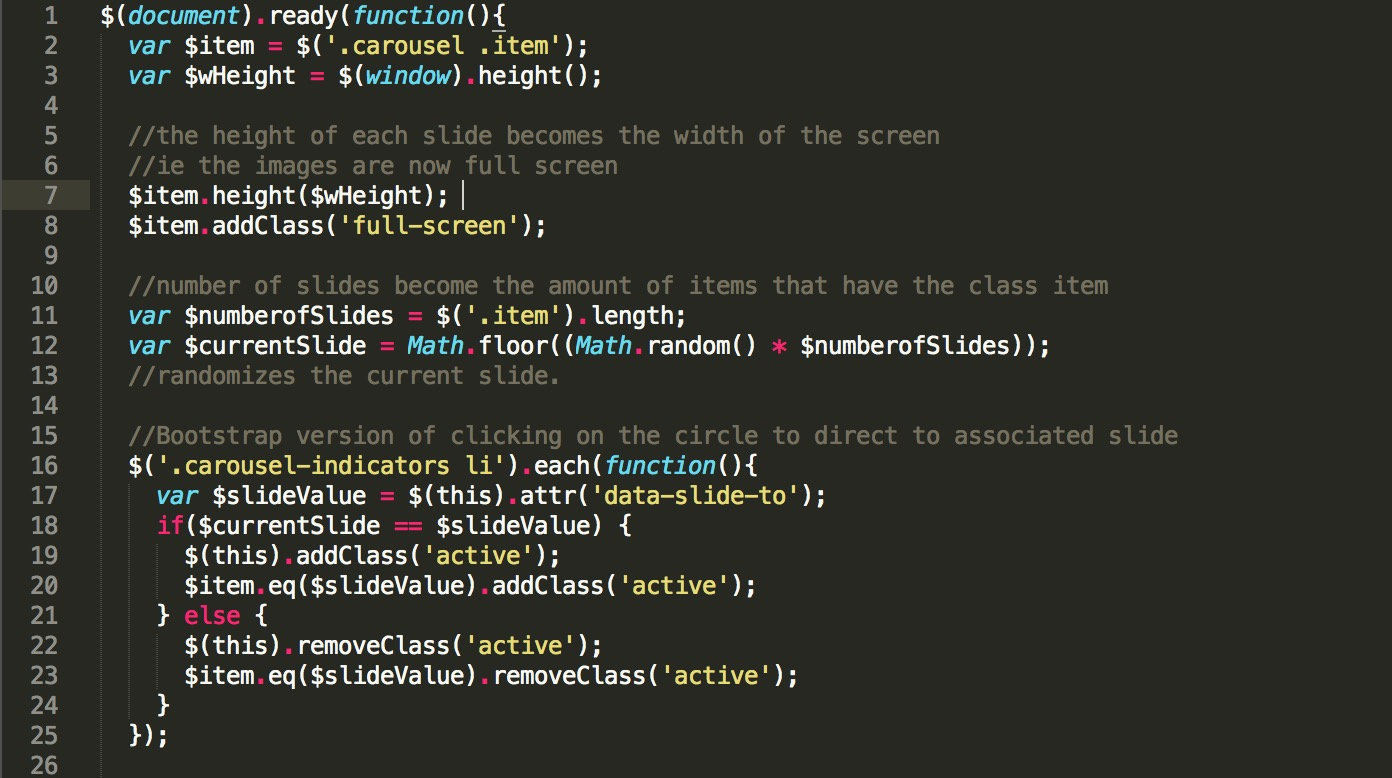
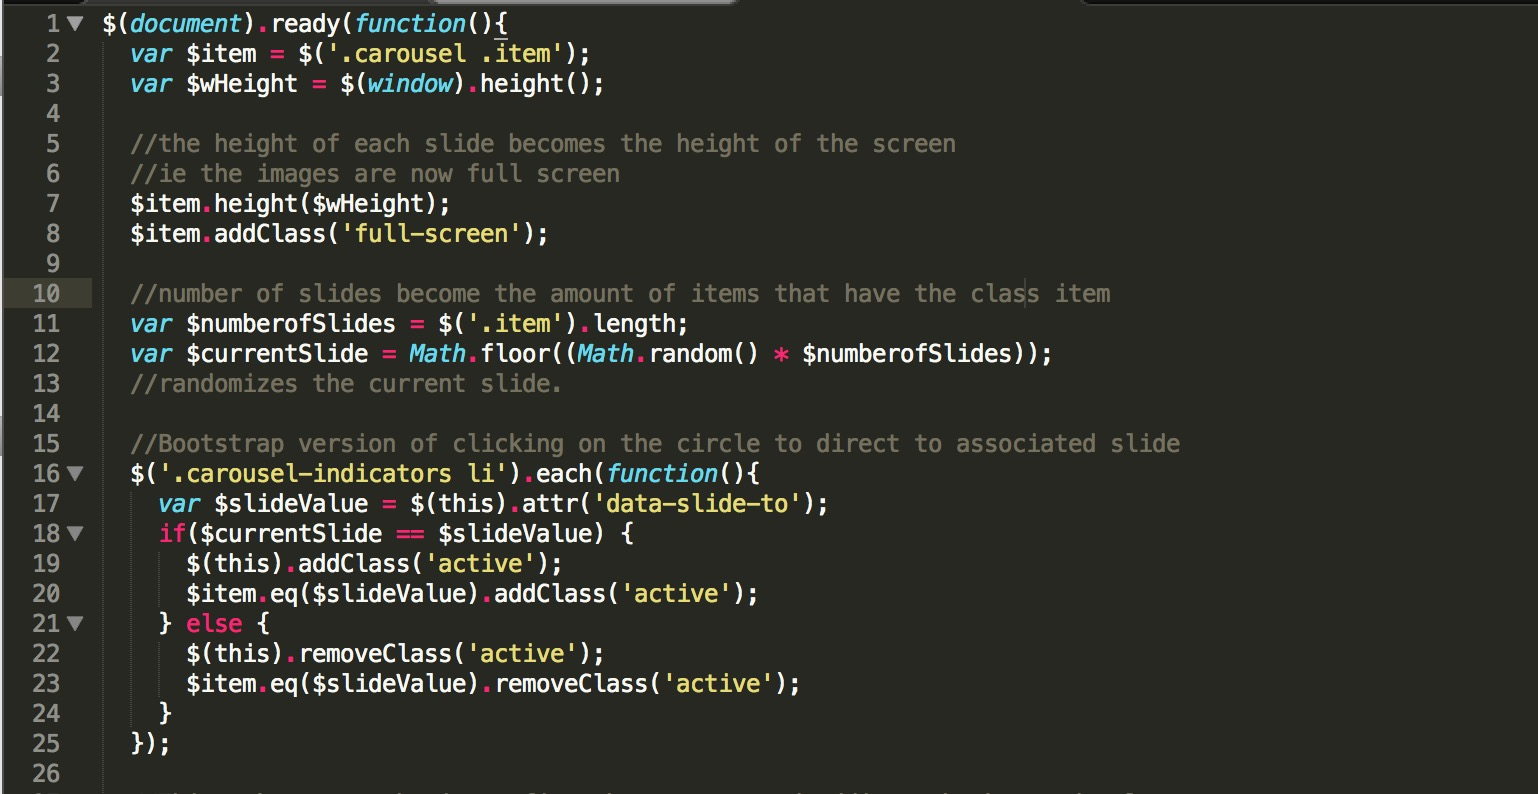
photo js:

Changed region(s): [[0.0, 0.0, 0.8649, 1.0]]

diff --git a/home/photo.js b/home/photo.js
@@ -2,7 +2,7 @@ $(document).ready(function(){
   var $item = $('.carousel .item');
   var $wHeight = $(window).height();
 
-  //the height of each slide becomes the width of the screen
+  //the height of each slide becomes the height of the screen
   //ie the images are now full screen
   $item.height($wHeight); 
   $item.addClass('full-screen');

diff --git a/README.md b/README.md
@@ -71,6 +71,15 @@ The photojs is a bit more complicated, but I'll go through it line by line. I've
 
 Line 1 "$(document).ready(function(){" is necessary for any pages using jquery and is a vital tool for front end development. It basically means at the start of the page x,y, and z will prop itself. 
 
+Line 2: Giving all items with the class item a variable
+
+Line 3: The height of the browser will be the height of the image
+
+Line 7/8: The height of the item is the size of the browser, and it's given the class of full-screen
+
+Line 11/12: the number of slides is the amount of classes that have the class item. The current slide is going to be a random slide from $numberofSlides
+
+Lines 16-25: Just the bootstrap version of when you click on the radio button it brings you to the associated slide, as well as adding/removing the class active
 
 ### Photo js pt 2
 The second part to the photo.js file.
